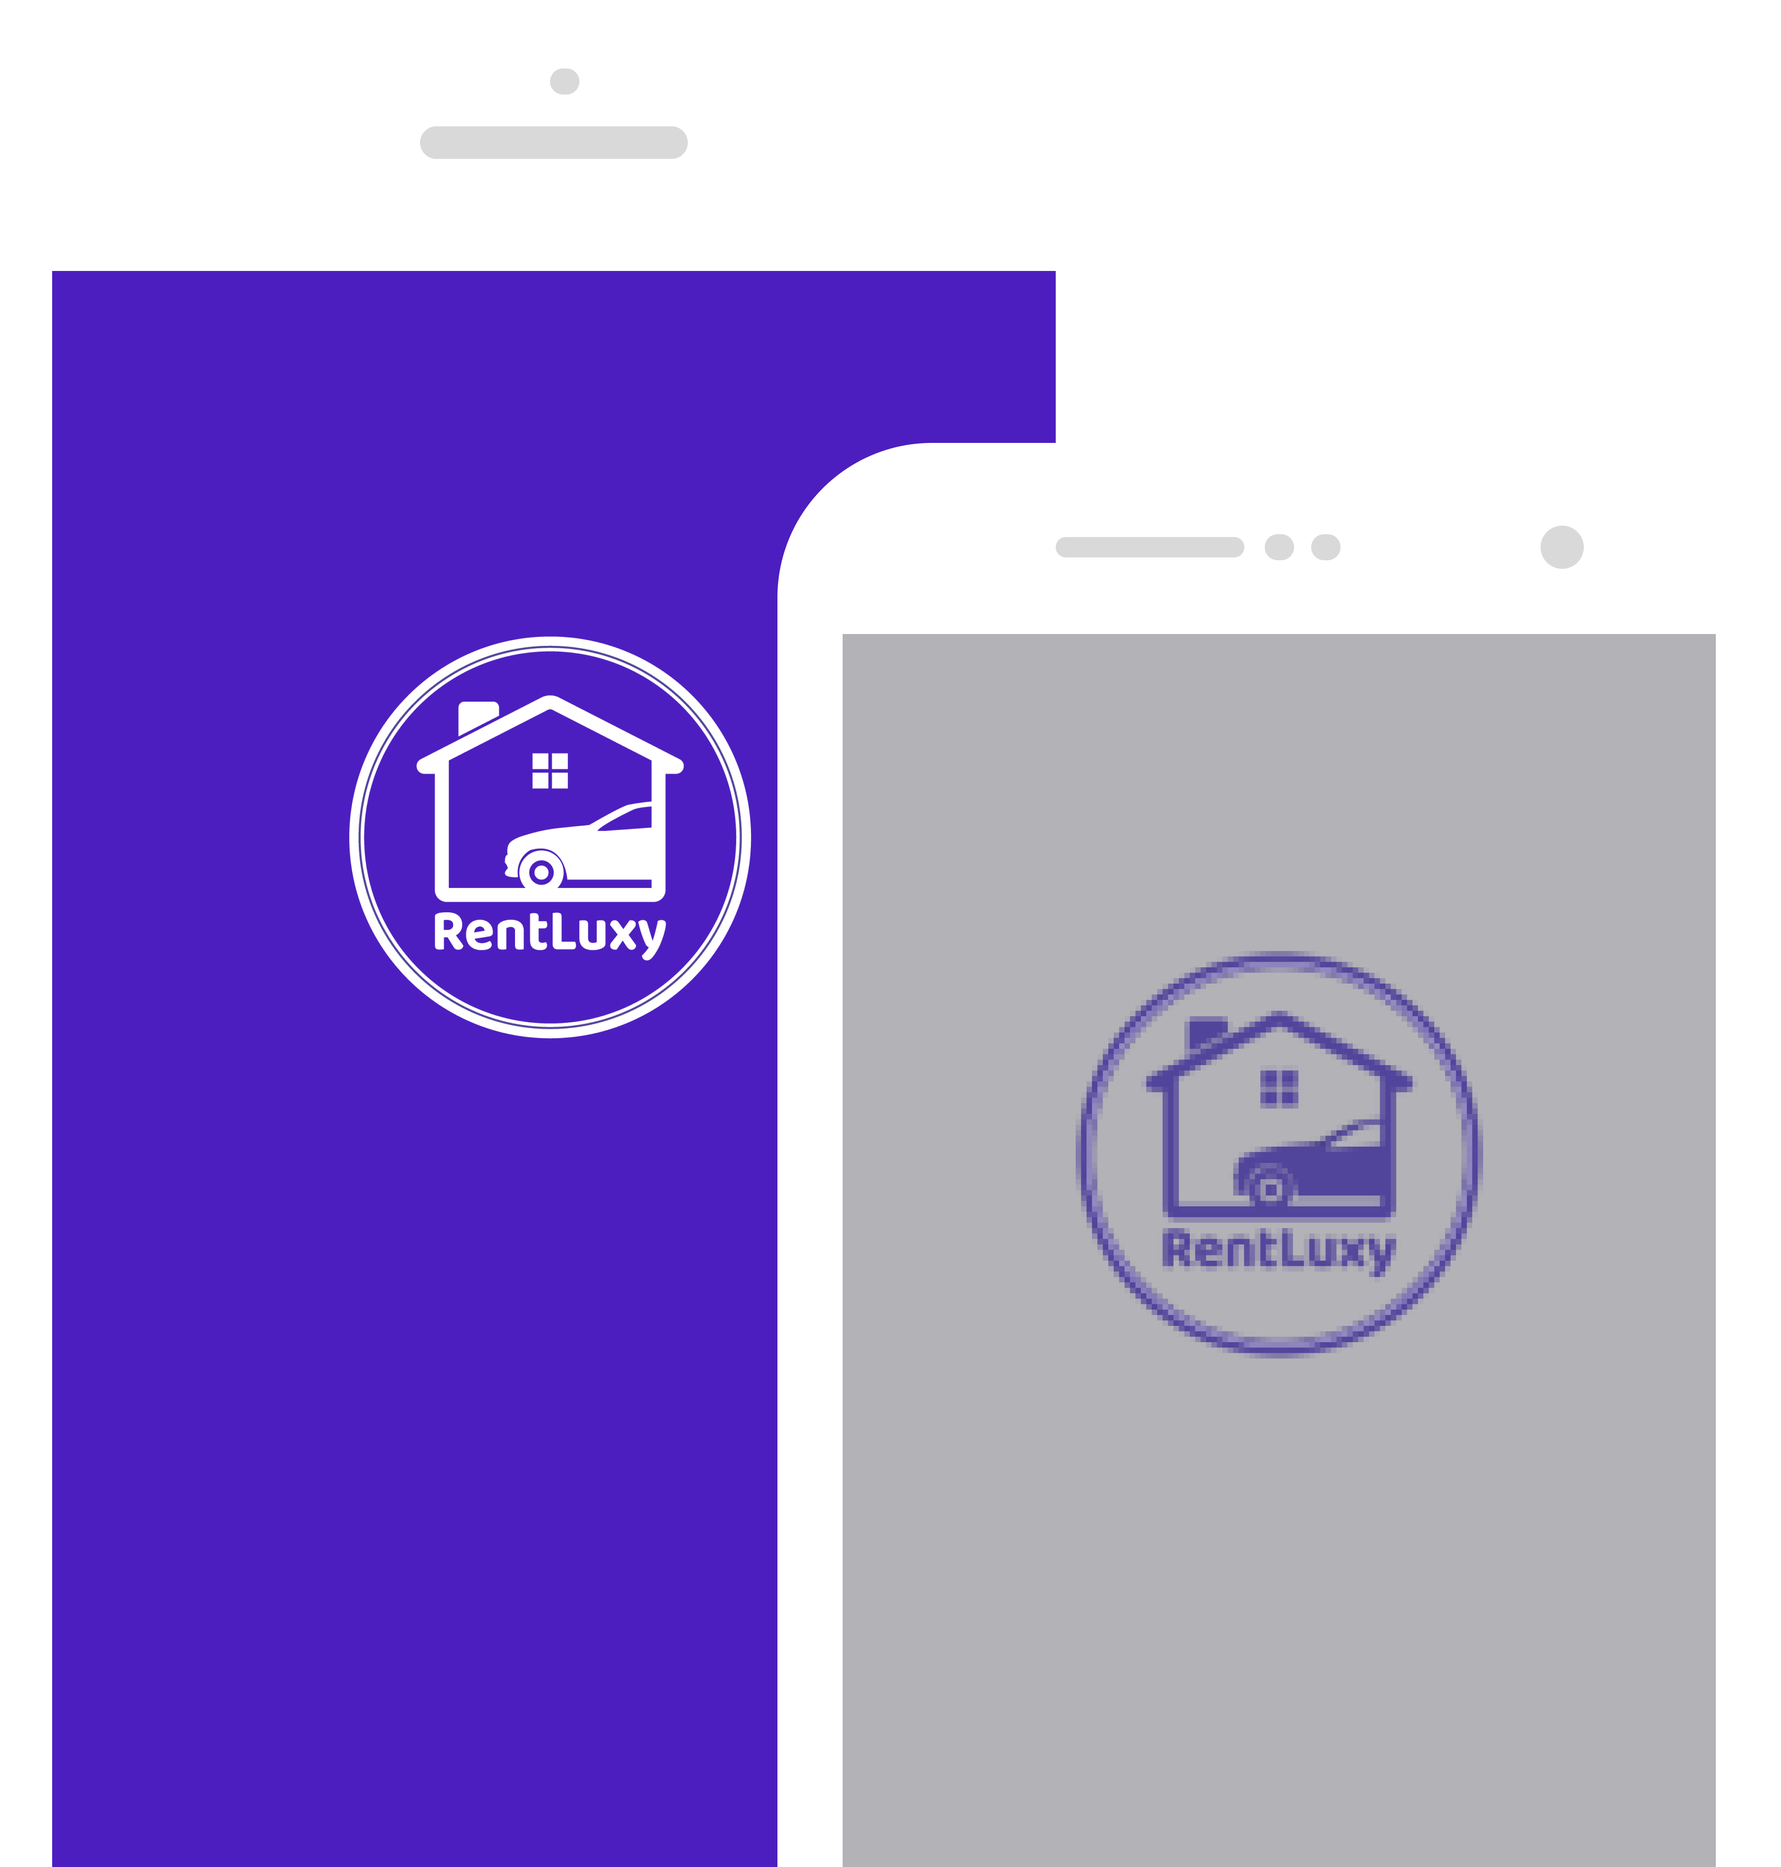
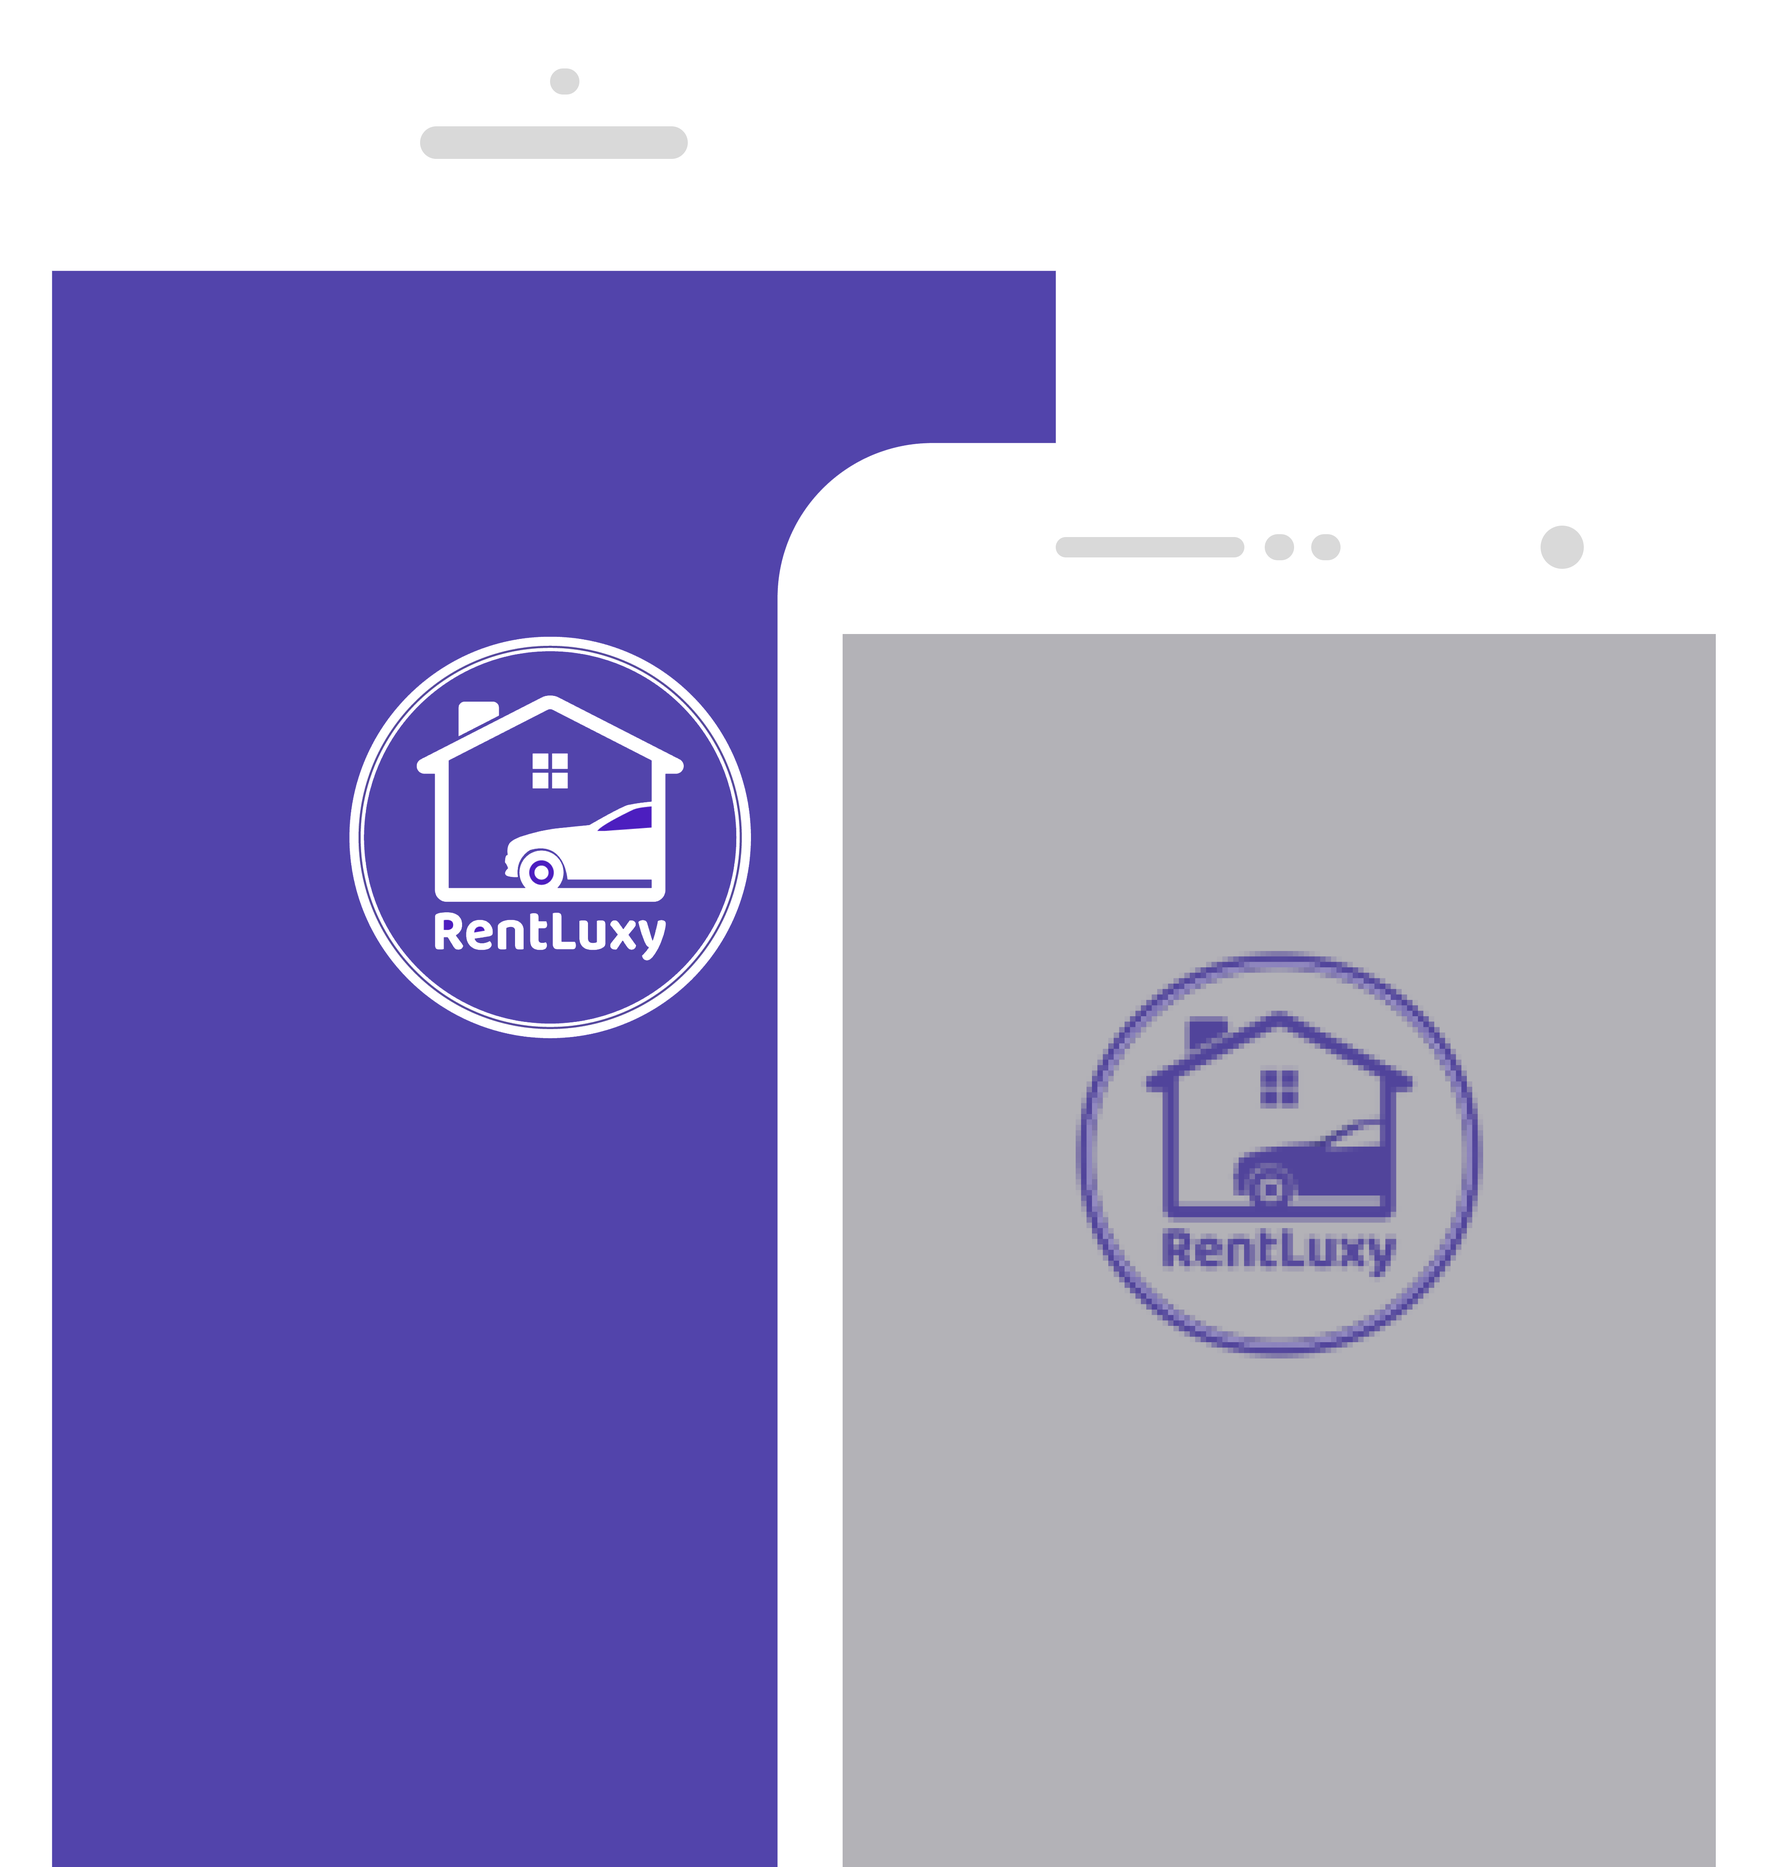
latest commit

diff --git a/index.html b/index.html
@@ -5,7 +5,7 @@
 <head>
     <meta charset="UTF-8" />
     <meta name="viewport" content="width=device-width, initial-scale=1.0" />
-    <title>Rentluxy | Car rental, Home rental, Become a Host and list your cars and houses</title>
+    <title>Rentluxy - Rent Car | Vacation Home</title>
     <!-- favicons Icons -->
     <link rel="apple-touch-icon" sizes="180x180" href="assets/images/favicons/apple-touch-icon.png" />
     <link rel="icon" type="image/png" sizes="32x32" href="assets/images/favicons/favicon-32x32.png" />
@@ -70,16 +70,16 @@
         }
 
         .hostBtn {
-            background: #4C1EBF;
-            border-color: #4C1EBF;
+            background: #5244ab;
+            border-color: #5244ab;
             color: #fff;
             font-size: x-large;
             font-weight: bolder;
         }
 
         .hostBtn:hover {
-            background: #4C1EBF;
-            border-color: #4C1EBF;
+            background: #5244ab;
+            border-color: #5244ab;
             color: #fff;
         }
 
@@ -96,7 +96,15 @@
         }
 
         .swiperSubSub {
-            font-size: 70px;
+            font-size: 40px;
+        }
+
+        .footer-widget__contact-list li .text p {
+            color: #fff;
+        }
+
+        .site-footer-bottom__copy-right {
+            color: #fff;
         }
 
         @media (orientation:portrait) {
@@ -109,7 +117,7 @@
             }
 
             .swiperSubSub {
-                font-size: 50px;
+                font-size: 20px;
             }
         }
 
@@ -123,7 +131,7 @@
             }
 
             .swiperSubSub {
-                font-size: 50px;
+                font-size: 20px;
             }
         }
     </style>
@@ -202,9 +210,9 @@
                                 <div class="col-lg-12 text-center">
                                     <div class="main-slider__content">
                                         <h2> <span class="swiperTitle"> RentLuxy </span></h2>
-                                        <h2> <span class="swiperSubTitle">Coming Soon </span></h2>
-                                        <h2><span class="swiperSubSub"> This Site is Under Maintenance </span>
+                                        <h2><span class="swiperSubSub"> Rent Car | Vacation Home </span>
                                         </h2>
+                                        <h2> <span class="swiperSubTitle">Coming Soon </span></h2>
                                     </div>
                                 </div>
                             </div>
@@ -221,9 +229,9 @@
                                 <div class="col-lg-12 text-center">
                                     <div class="main-slider__content">
                                         <h2> <span class="swiperTitle"> RentLuxy </span></h2>
-                                        <h2> <span class="swiperSubTitle">Coming Soon </span></h2>
-                                        <h2><span class="swiperSubSub"> This Site is Under Maintenance </span>
+                                        <h2><span class="swiperSubSub"> Rent Car | Vacation Home </span>
                                         </h2>
+                                        <h2> <span class="swiperSubTitle">Coming Soon </span></h2>
                                     </div>
                                 </div>
                             </div>
@@ -240,9 +248,9 @@
                                 <div class="col-lg-12 text-center">
                                     <div class="main-slider__content">
                                         <h2> <span class="swiperTitle"> RentLuxy </span></h2>
-                                        <h2> <span class="swiperSubTitle">Coming Soon </span></h2>
-                                        <h2><span class="swiperSubSub"> This Site is Under Maintenance </span>
+                                        <h2><span class="swiperSubSub"> Rent Car | Vacation Home </span>
                                         </h2>
+                                        <h2> <span class="swiperSubTitle">Coming Soon </span></h2>
                                     </div>
                                 </div>
                             </div>
@@ -261,9 +269,9 @@
                                 <div class="col-lg-12 text-center">
                                     <div class="main-slider__content">
                                         <h2> <span class="swiperTitle"> RentLuxy </span></h2>
-                                        <h2> <span class="swiperSubTitle">Coming Soon </span></h2>
-                                        <h2><span class="swiperSubSub"> This Site is Under Maintenance </span>
+                                        <h2><span class="swiperSubSub"> Rent Car | Vacation Home </span>
                                         </h2>
+                                        <h2> <span class="swiperSubTitle">Coming Soon </span></h2>
                                     </div>
                                 </div>
                             </div>
@@ -283,9 +291,9 @@
                                 <div class="col-lg-12 text-center">
                                     <div class="main-slider__content">
                                         <h2> <span class="swiperTitle"> RentLuxy </span></h2>
-                                        <h2> <span class="swiperSubTitle">Coming Soon </span></h2>
-                                        <h2><span class="swiperSubSub"> This Site is Under Maintenance </span>
+                                        <h2><span class="swiperSubSub"> Rent Car | Vacation Home </span>
                                         </h2>
+                                        <h2> <span class="swiperSubTitle">Coming Soon </span></h2>
                                     </div>
                                 </div>
                             </div>
@@ -305,9 +313,9 @@
                                 <div class="col-lg-12 text-center">
                                     <div class="main-slider__content">
                                         <h2> <span class="swiperTitle"> RentLuxy </span></h2>
-                                        <h2> <span class="swiperSubTitle">Coming Soon </span></h2>
-                                        <h2><span class="swiperSubSub"> This Site is Under Maintenance </span>
+                                        <h2><span class="swiperSubSub"> Rent Car | Vacation Home </span>
                                         </h2>
+                                        <h2> <span class="swiperSubTitle">Coming Soon </span></h2>
                                     </div>
                                 </div>
                             </div>
@@ -672,7 +680,7 @@
                             </a>
                             <div class="contact-info__details">
                                 <h4 class="contact-info__title">Call Us</h4>
-                                <p><a href="tel:+18063012062">+1 8063012062</a></p>
+                                <p><a href="tel:+18063012062">806 301 2062</a></p>
                             </div>
                         </div>
                     </div>
@@ -683,7 +691,7 @@
 
         <!--Site Footer One Start-->
         <footer class="site-footer">
-            <div class="site-footer-bg" style="background-image: url(assets/images/backgrounds/backgr.jpg)">
+            <div class="site-footer-bg" style="background-image: url(assets/images/backgrounds/backgr.png)">
             </div>
             <div class="container">
                 <div class="site-footer__top">
@@ -718,7 +726,7 @@
                                             <span class="icon-email"></span>
                                         </div>
                                         <div class="text">
-                                            <p><a href="mailto:info@rentluxy.com">[email&#160;protected]</a></p>
+                                            <p><a style="color: #fff;" href="mailto:info@rentluxy.com">[email&#160;protected]</a></p>
                                         </div>
                                     </li>
                                     <li>
@@ -726,7 +734,7 @@
                                             <span class="icon-telephone"></span>
                                         </div>
                                         <div class="text">
-                                            <p><a href="tel:+18063012062">+1 8063012062</a></p>
+                                            <p><a style="color: #fff;" href="tel:+18063012062">806 301 2062</a></p>
                                         </div>
                                     </li>
                                 </ul>
@@ -735,7 +743,7 @@
                         <div class="col-xl-3 col-lg-6 col-md-6 wow fadeInUp" data-wow-delay="400ms">
                             <div class="footer-widget__column footer-widget__newsletter">
                                 <h3 class="footer-widget__title">Newsletter</h3>
-                                <p class="footer-widget__newsletter-text">Subsrcibe for latest articles and resources
+                                <p class="footer-widget__newsletter-text" style="color: #fff;">Subsrcibe for latest articles and resources
                                 </p>
                                 <form class="footer-widget__newsletter-form" action="#" id="newsLetter">
                                     <div class="footer-widget__newsletter-input-box">

diff --git a/assets/css/entox.css b/assets/css/entox.css
@@ -51,7 +51,7 @@ h2, h1,h3,h4,h5,h6,p,a{
 }
 
 #host{
-    color: #4C1EBF;
+    color: #5244ab;
     font-size: medium;
 }
 .comment-form__input-box{
@@ -171,7 +171,7 @@ ul {
 
 .section-title__tagline::before {
     content: '';
-    background-color: #4C1EBF;
+    background-color: #5244ab;
     width: 12px;
     height: 4px;
     margin-right: 10px;
@@ -227,7 +227,7 @@ ul {
     display: inline-block;
     width: 45px;
     height: 45px;
-    background: #4C1EBF;
+    background: #5244ab;
     position: fixed;
     bottom: 40px;
     right: 40px;
@@ -284,13 +284,13 @@ ul {
 }
 
 .main-menu-wrapper {
-    color: #4C1EBF;
+    color: #5244ab;
     position: relative;
     display: block;
 }
 
 .main-menu-wrapper h5 {
-    color: #4C1EBF;
+    color: #5244ab;
 }
 .main-menu-wrapper :hover{
     color: #CCA70E;
@@ -401,7 +401,7 @@ ul {
 }
 
 .main-menu .main-menu__list>li.current>a::before {
-    background-color: #4C1EBF;
+    background-color: #5244ab;
 }
 
 .main-menu .main-menu__list>li:hover>a::before {
@@ -449,7 +449,7 @@ ul {
 .stricky-header .main-menu__list li ul li a {
     font-size: 16px;
     line-height: 30px;
-    color: #4C1EBF;
+    color: #5244ab;
     display: flex;
     padding-left: 20px;
     padding-right: 20px;
@@ -1120,7 +1120,7 @@ ul {
 
 .featured-one__left-img-title a:hover {
     text-decoration: none;
-    color: var#4C1EBF;
+    color: var#5244ab;
 }
 
 /* .featured-one__left-car-price {
@@ -1226,7 +1226,7 @@ ul {
 
 .featured-one__img-content-title a:hover {
     text-decoration: none;
-    color: #4C1EBF;
+    color: #5244ab;
 }
 
 /* .featured-one__img-content-car-price {
@@ -1237,7 +1237,7 @@ ul {
 
 .featured-one__img-content-car-price span {
     font-size: 24px;
-    color: #4C1EBF;
+    color: #5244ab;
     font-weight: 700;
 } */
 
@@ -1247,7 +1247,7 @@ ul {
 .download {
     position: relative;
     display: block;
-    background-color: #4C1EBF;
+    background-color: #5244ab;
 }
 
 .download__content {
@@ -1296,7 +1296,7 @@ ul {
 .download__btn-1 a:hover {
     text-decoration: none;
     background-color: #CCA70E;
-    color: #4C1EBF;
+    color: #5244ab;
 }
 
 .download__btn-1 i {
@@ -1476,7 +1476,7 @@ ul {
 
 .footer-widget__newsletter-btn i {
     font-size: 15px;
-    color: #4C1EBF;
+    color: #5244ab;
 }
 
 .footer-widget__newsletter-input-box button:focus {
@@ -1529,7 +1529,7 @@ ul {
 .site-footer__social a:hover {
     text-decoration: none;
     background-color: #CCA70E;
-    color: #4C1EBF;
+    color: #5244ab;
 }
 
 .site-footer-bottom__copy-right {
@@ -1575,7 +1575,7 @@ ul {
 }
 
 .comment-form__btn {
-    background:  #4C1EBF;
+    background:  #5244ab;
     font-size: 18px;
     font-weight: 700;
     padding: 20.5px 60px;
@@ -1636,7 +1636,7 @@ ul {
     -webkit-box-pack: center;
     justify-content: center;
     text-align: center;
-    color: #4C1EBF;
+    color: #5244ab;
     background-color: #e9edf2;
     height: 40px;
     width: 40px;
@@ -1653,7 +1653,7 @@ ul {
 .contact-page__social-list a:hover {
     text-decoration: none;
     color: #CCA70E;
-    background-color: #4C1EBF;
+    background-color: #5244ab;
 }
 
 /*--------------------------------------------------------------
@@ -1679,7 +1679,7 @@ ul {
 .contact-info__icon {
     height: 100px;
     width: 100px;
-    background-color: #4C1EBF;
+    background-color: #5244ab;
     border-radius: 50%;
     color: var(--thm-base);
     font-size: 30px;
@@ -1717,5 +1717,5 @@ ul {
 
 .contact-info__details a:hover {
     text-decoration: none;
-    color: #4C1EBF;
+    color: #5244ab;
 }

diff --git a/css/style.css b/css/style.css
@@ -137,11 +137,11 @@ sup {
   top: -.5em; }
 
 a {
-  color: #4C1EBF;
+  color: #5244ab;
   text-decoration: none;
   background-color: transparent; }
   a:hover {
-    color: #4C1EBF;
+    color: #5244ab;
     text-decoration: underline; }
 
 a:not([href]):not([tabindex]) {
@@ -6870,7 +6870,7 @@ button.bg-dark:focus {
     right: 0;
     bottom: 0;
     content: '';
-    background: #4C1EBF;
+    background: #5244ab;
     z-index: -2;
     width: 63%; }
     @media (max-width: 767.98px) {
@@ -6901,7 +6901,7 @@ button.bg-dark:focus {
   margin-bottom: 20px; }
   .services .icon span {
     font-size: 40px;
-    color: #4C1EBF; }
+    color: #5244ab; }
 
 .services h3 {
   font-size: 17px;
@@ -6910,7 +6910,7 @@ button.bg-dark:focus {
 .services.services-2 .icon {
   width: 110px;
   height: 110px;
-  background: #4C1EBF;
+  background: #5244ab;
   border: none; }
   .services.services-2 .icon span {
     color: #fff; }
@@ -6931,7 +6931,7 @@ button.bg-dark:focus {
       width: 40%;
       content: '';
       opacity: 1;
-      background: #4C1EBF;
+      background: #5244ab;
       -ms-transform: rotate(20deg);
       /* IE 9 */
       -webkit-transform: rotate(20deg);
